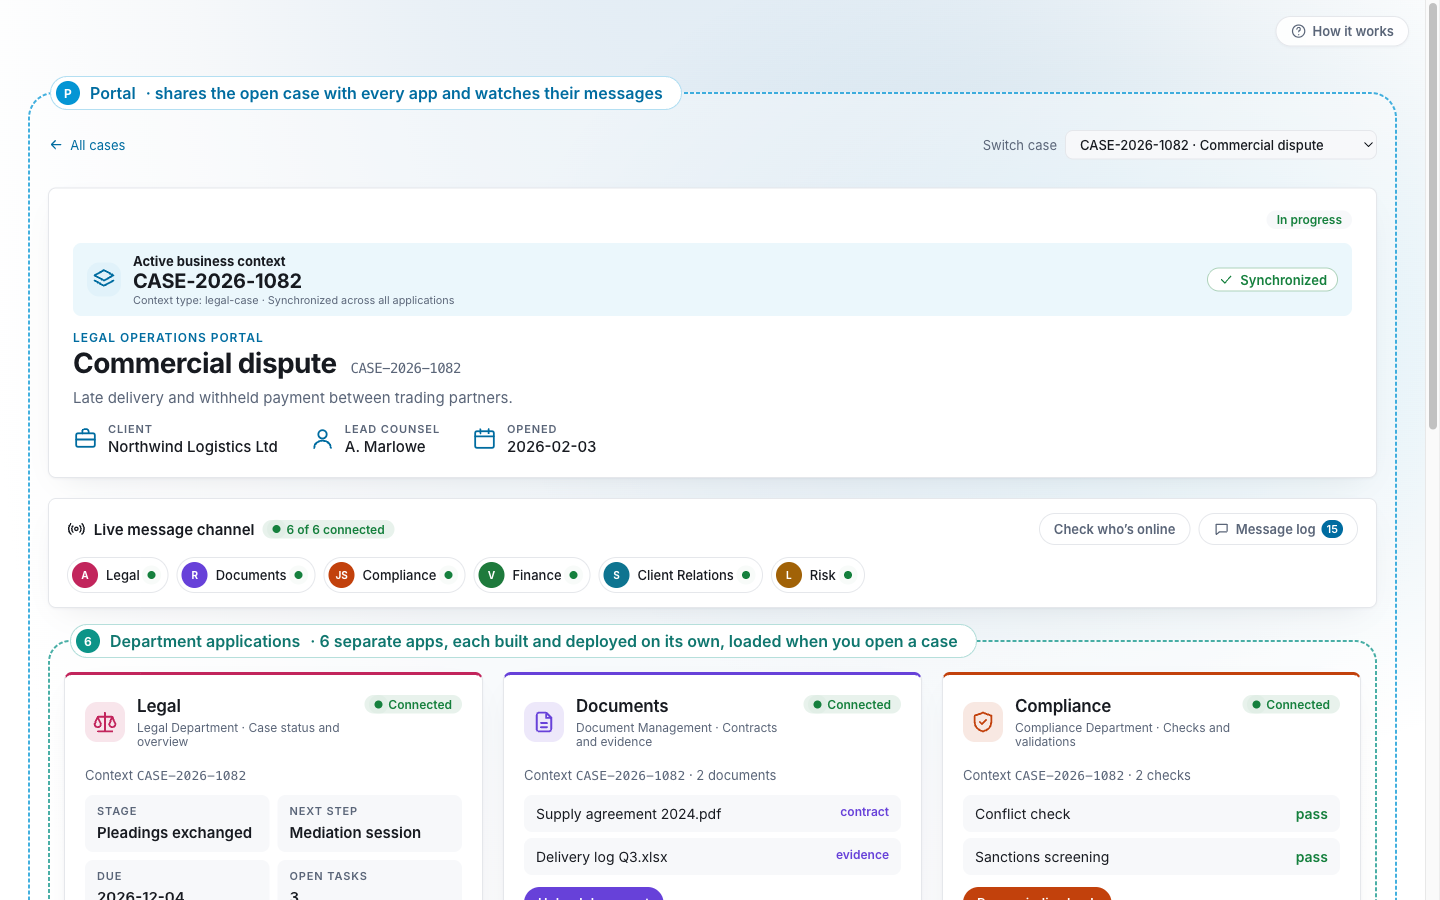
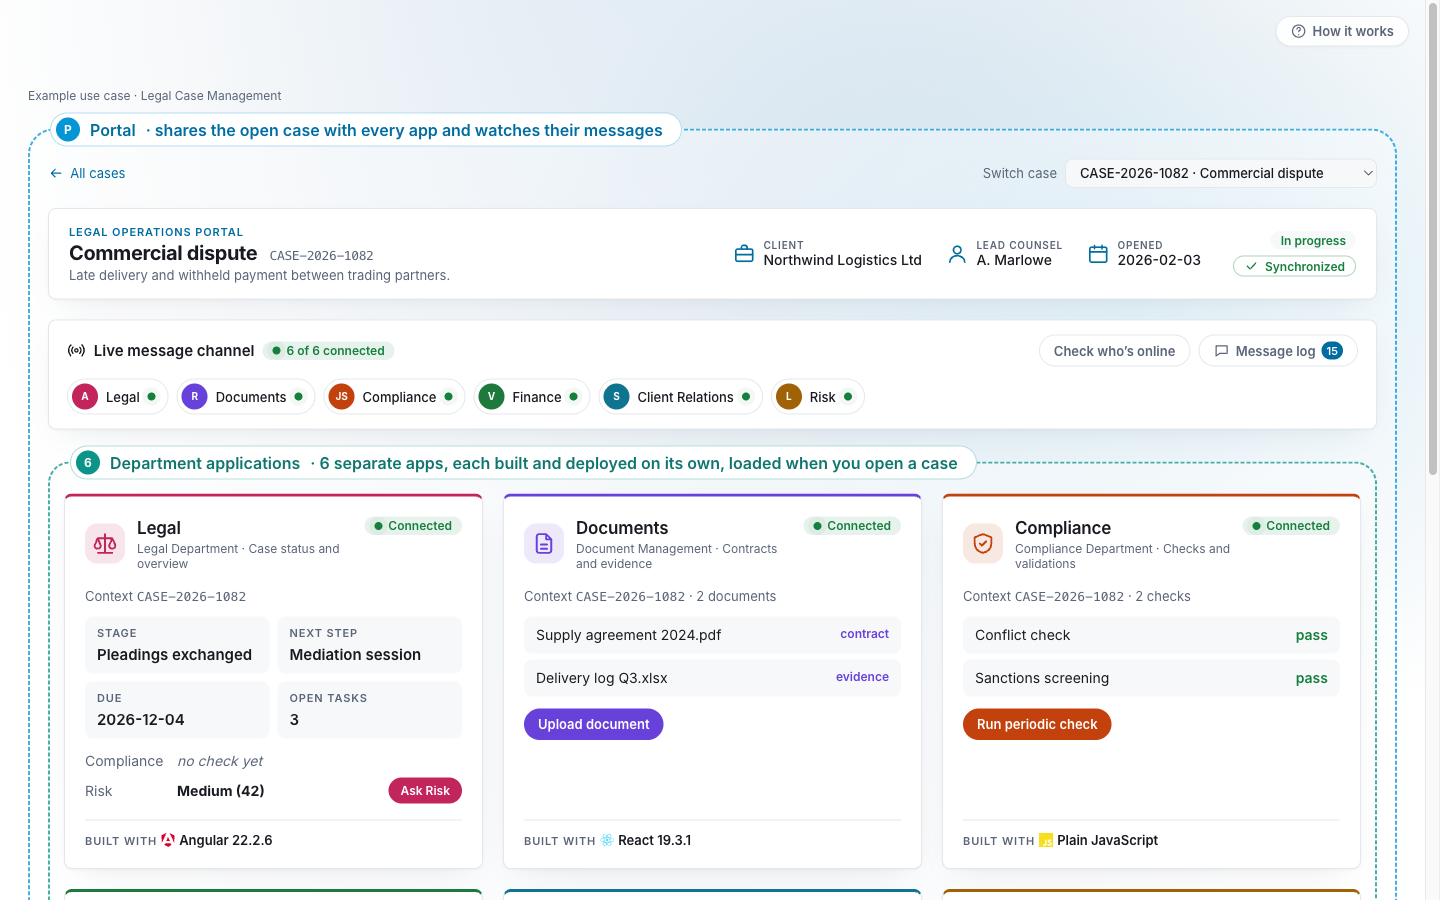
feat: compact case card with status and sync badges

diff --git a/apps/portal/src/app/components/context-page/context-page.component.scss b/apps/portal/src/app/components/context-page/context-page.component.scss
@@ -1,43 +1,43 @@
-.context { padding: 22px 24px; }
+.eyebrow { margin: 4px 0 26px; font-size: 12px; color: var(--subtle); }
 .toolbar { display: flex; flex-wrap: wrap; justify-content: space-between; align-items: center; gap: 8px 16px; }
-.top { display: flex; justify-content: flex-end; align-items: center; }
 .back { display: inline-flex; align-items: center; gap: 6px; color: var(--accent); font-size: 13px; text-decoration: none; }
-.kind { margin: 14px 0 2px; font-size: 12px; font-weight: 600; letter-spacing: 0.08em; text-transform: uppercase; color: var(--accent); }
-h2 { margin: 0; font: 700 28px/1.2 var(--font-sans); letter-spacing: -0.02em; }
-.id { margin-left: 8px; font: 500 14px var(--font-mono); color: var(--subtle); }
-.summary { margin: 8px 0 0; max-width: 70ch; color: var(--text-secondary); }
-dl { display: flex; flex-wrap: wrap; gap: 8px 32px; margin: 16px 0 0; }
-dl > div { display: flex; align-items: center; gap: 10px; }
-dl app-icon { font-size: 20px; color: var(--accent); }
-dt { font-size: 11px; font-weight: 600; letter-spacing: 0.08em; text-transform: uppercase; color: var(--subtle); }
-dd { margin: 2px 0 0; font-weight: 500; }
-.status { padding: 2px 10px; border-radius: 99px; font-size: 12px; font-weight: 600; background: var(--surface); }
-.status[data-tone='active'] { color: var(--ok); }
-.status[data-tone='pending'] { color: #a16207; }
 .switch { display: inline-flex; align-items: center; gap: 8px; font-size: 13px; color: var(--subtle); }
 .switch select { max-width: 100%; padding: 5px 10px; border-radius: 8px; border: 1px solid var(--border); background: var(--surface); color: var(--text); font: 500 13px var(--font-sans); }
 
-.banner { display: flex; align-items: center; flex-wrap: wrap; gap: 12px; margin-top: 14px; padding: 10px 14px; border-radius: 8px; background: color-mix(in srgb, var(--bavaria) 8%, white); font-size: 13px; }
-.banner code { margin: 0 4px; }
-.banner code, .txt { flex: 1; display: grid; }
-.cid { font-size: 20px; letter-spacing: -0.01em; }
-.txt small { color: var(--subtle); }
+/* Case card, desktop: one row of three columns (title block · fields · badges). */
+.context { display: grid; grid-template-columns: minmax(0, 1fr) auto auto; align-items: center; gap: 12px 32px; padding: 16px 20px; }
+.head { min-width: 0; }
+.kind { margin: 0 0 2px; font-size: 11px; font-weight: 600; letter-spacing: 0.08em; text-transform: uppercase; color: var(--accent); }
+h2 { margin: 0; font: 700 20px/1.25 var(--font-sans); letter-spacing: -0.02em; }
+.id { margin-left: 8px; font: 500 13px var(--font-mono); color: var(--subtle); }
+.summary { margin: 2px 0 0; font-size: 13px; color: var(--text-secondary); }
+dl { display: flex; gap: 24px; margin: 0; }
+dl > div { display: flex; align-items: center; gap: 8px; }
+dl app-icon { font-size: 18px; color: var(--accent); }
+dt { font-size: 10px; font-weight: 600; letter-spacing: 0.08em; text-transform: uppercase; color: var(--subtle); }
+dd { margin: 0; font-size: 14px; font-weight: 500; white-space: nowrap; }
+.badges { display: flex; flex-direction: column; align-items: flex-end; gap: 6px; }
+.status { padding: 2px 10px; border-radius: 99px; font-size: 12px; font-weight: 600; background: var(--surface); }
+.status[data-tone='active'] { color: var(--ok); }
+.status[data-tone='pending'] { color: #a16207; }
+.sync { display: inline-flex; align-items: center; gap: 6px; padding: 2px 10px; border-radius: 99px; border: 1px solid color-mix(in srgb, var(--ok) 35%, white); background: white; font-size: 12px; font-weight: 600; color: var(--ok); white-space: nowrap; }
 .sync.wait { color: var(--subtle); border-color: var(--border); }
-.banner .ico-tile { width: 34px; height: 34px; }
-.sync { display: inline-flex; align-items: center; gap: 6px; padding: 3px 10px; border-radius: 99px; border: 1px solid color-mix(in srgb, var(--ok) 35%, white); background: white; font-weight: 600; color: var(--ok); }
 
-/* Phones: the banner stacks; the icon goes, the id shrinks, the sync badge sits on its own line. */
+/* Mid widths: the fields drop under the title, badges stay top right. */
+@media (max-width: 1100px) {
+  .context { grid-template-columns: minmax(0, 1fr) auto; align-items: start; }
+  dl { grid-column: 1 / -1; grid-row: 2; flex-wrap: wrap; gap: 8px 24px; }
+}
+
+/* Phones: badges first as one row, then title, then fields in two columns. */
 @media (max-width: 640px) {
-  .context { padding: 16px; }
   .switch { width: 100%; }
   .switch select { flex: 1; min-width: 0; }
-  .banner { gap: 8px; padding: 10px 12px; }
-  .banner .ico-tile { display: none; }
-  .txt { flex-basis: 100%; min-width: 0; }
-  .cid { font-size: 17px; overflow-wrap: anywhere; }
-  .txt small { overflow-wrap: anywhere; }
-  .sync { font-size: 12px; }
-  h2 { font-size: 22px; }
-  .id { display: block; margin: 4px 0 0; }
-  dl { gap: 10px 20px; }
+  .context { grid-template-columns: minmax(0, 1fr); gap: 10px; padding: 14px; }
+  .badges { grid-row: 1; flex-direction: row; flex-wrap: wrap; align-items: center; }
+  .head { grid-row: 2; }
+  h2 { font-size: 19px; }
+  .id { display: block; margin: 2px 0 0; }
+  dl { grid-row: 3; display: grid; grid-template-columns: 1fr 1fr; gap: 10px 16px; }
+  dd { white-space: normal; overflow-wrap: anywhere; }
 }

diff --git a/apps/portal/src/app/components/context-page/context-page.component.html b/apps/portal/src/app/components/context-page/context-page.component.html
@@ -1,4 +1,5 @@
 @if (record(); as r) {
+  <p class="eyebrow">Example use case · {{ scenario()?.name }}</p>
   <section class="host frame" aria-label="Hosted by the shell portal">
     <div class="frame-label">
       <span class="p-badge" aria-hidden="true">P</span>
@@ -15,29 +16,23 @@
         </select>
       </label>
     </nav>
-    <section class="context panel" aria-label="Active context">
-      <div class="top">
-        <span class="status" [attr.data-tone]="r.tone">{{ r.status }}</span>
+    <section class="context panel" [attr.aria-label]="r.title">
+      <div class="head">
+        <p class="kind">{{ scenario()?.branding?.portalLabel }}</p>
+        <h2>{{ r.title }} <code class="id">{{ r.id }}</code></h2>
+        <p class="summary">{{ r.summary }}</p>
       </div>
-      <div class="banner">
-        <span class="ico-tile"><app-icon name="layers" /></span>
-        <span class="txt">
-          <strong>Active business context</strong>
-          <b class="cid">{{ r.id }}</b>
-          <small>Context type: {{ r.contextType }}@if (synced()) { · Synchronized across all applications }</small>
-        </span>
-        <span class="sync" [class.wait]="!synced()">
-          @if (synced()) { <app-icon name="check" /> Synchronized } @else { {{ feed.connectedCount() }} of {{ mfes().length }} apps connected }
-        </span>
-      </div>
-      <p class="kind">{{ scenario()?.branding?.portalLabel }}</p>
-      <h2>{{ r.title }} <code class="id">{{ r.id }}</code></h2>
-      <p class="summary">{{ r.summary }}</p>
       <dl>
         @for (f of r.fields; track f.label) {
           <div>@if (f.icon) { <app-icon [name]="f.icon" /> }<span><dt>{{ f.label }}</dt><dd>{{ f.value }}</dd></span></div>
         }
       </dl>
+      <div class="badges">
+        <span class="status" [attr.data-tone]="r.tone">{{ r.status }}</span>
+        <span class="sync" role="status" [class.wait]="!synced()">
+          @if (synced()) { <app-icon name="check" /> Synchronized } @else { {{ feed.connectedCount() }} of {{ mfes().length }} apps connected }
+        </span>
+      </div>
     </section>
     <app-message-channel class="panel" [mfes]="mfes()" />
     <section class="mfes frame" aria-label="Micro-frontends">
